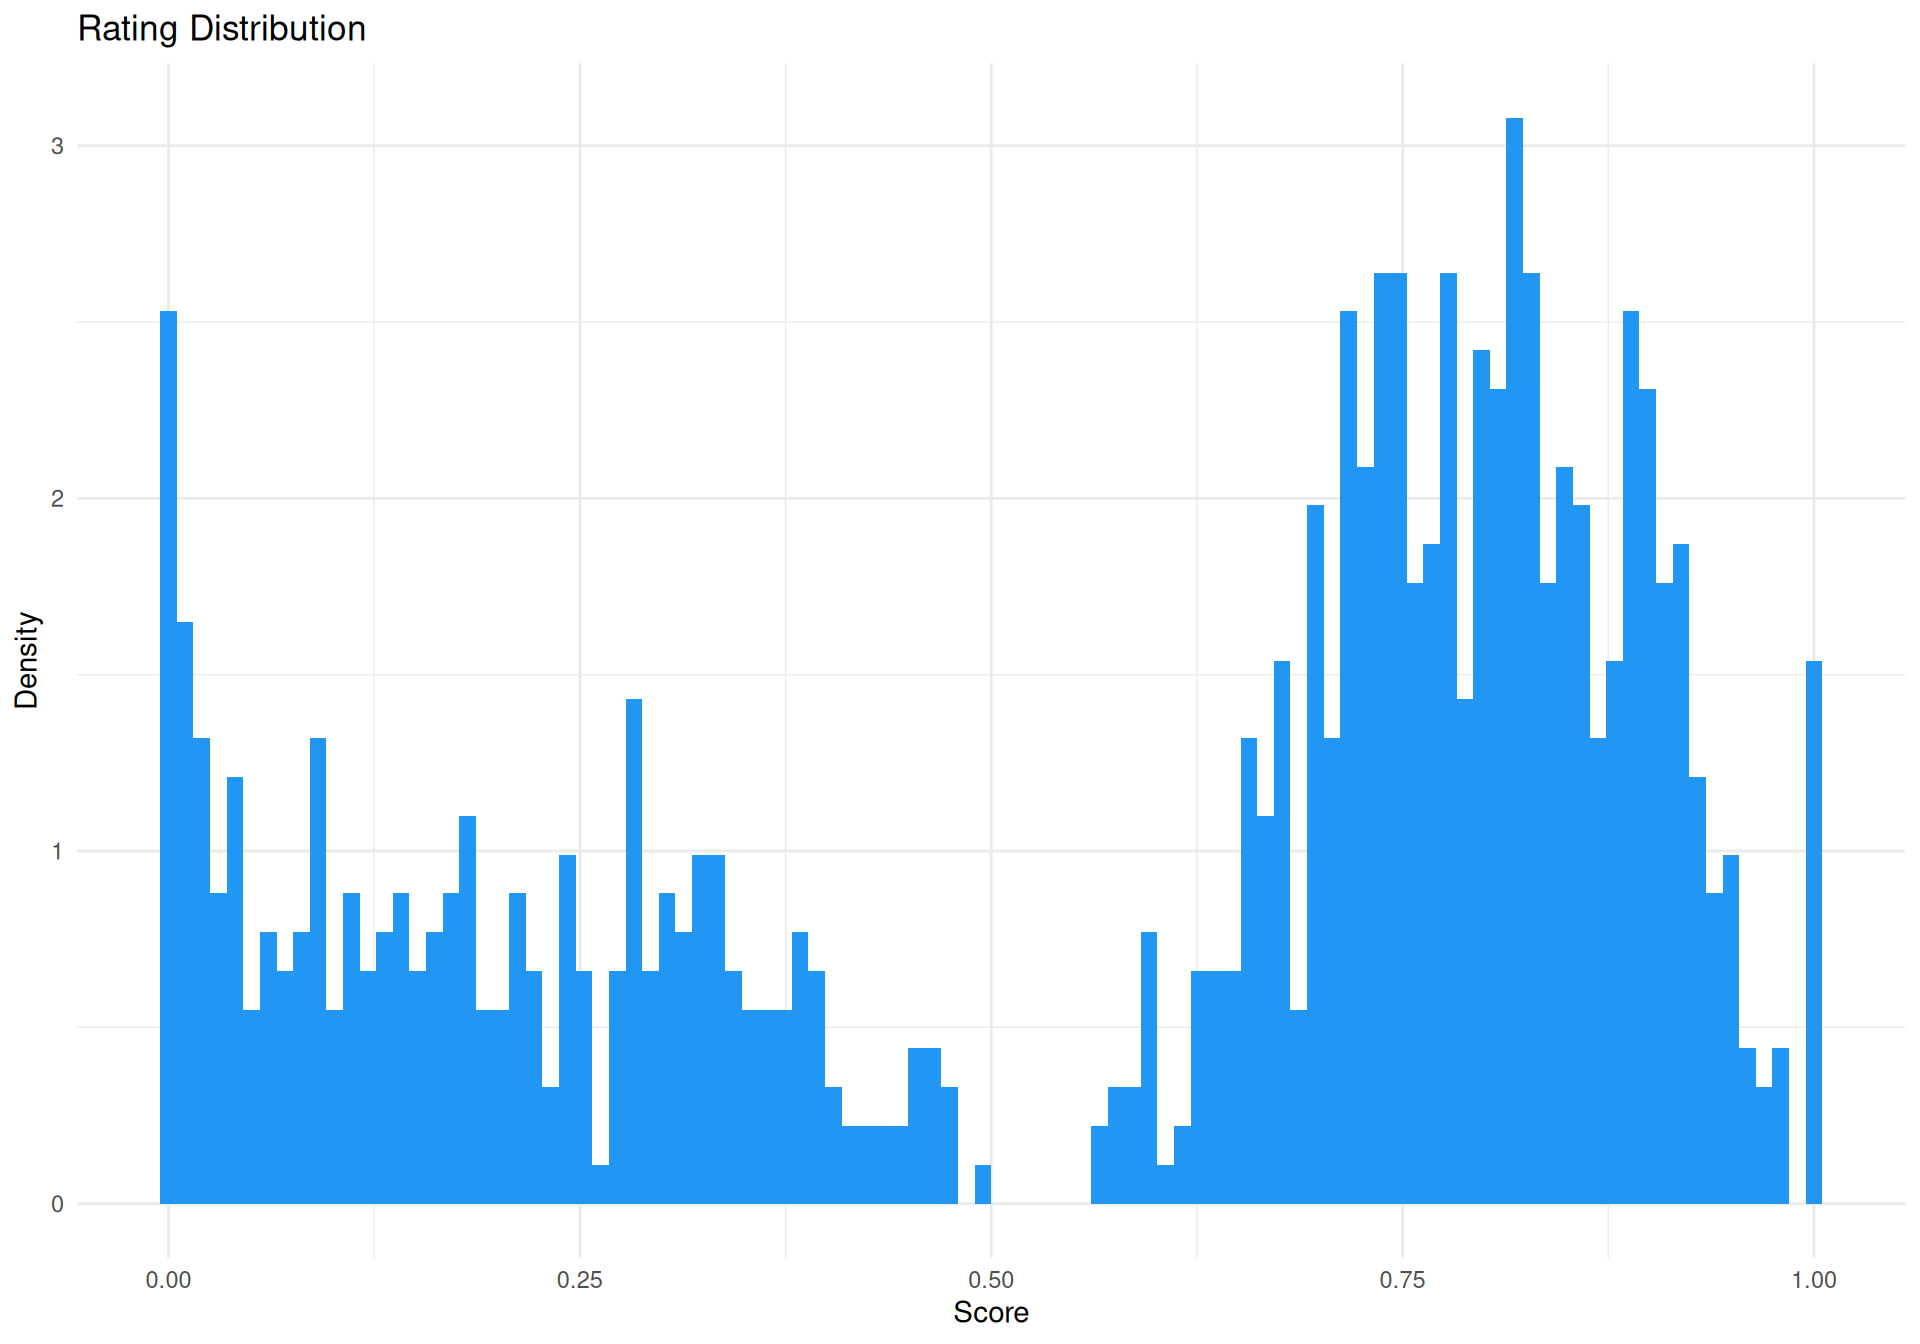
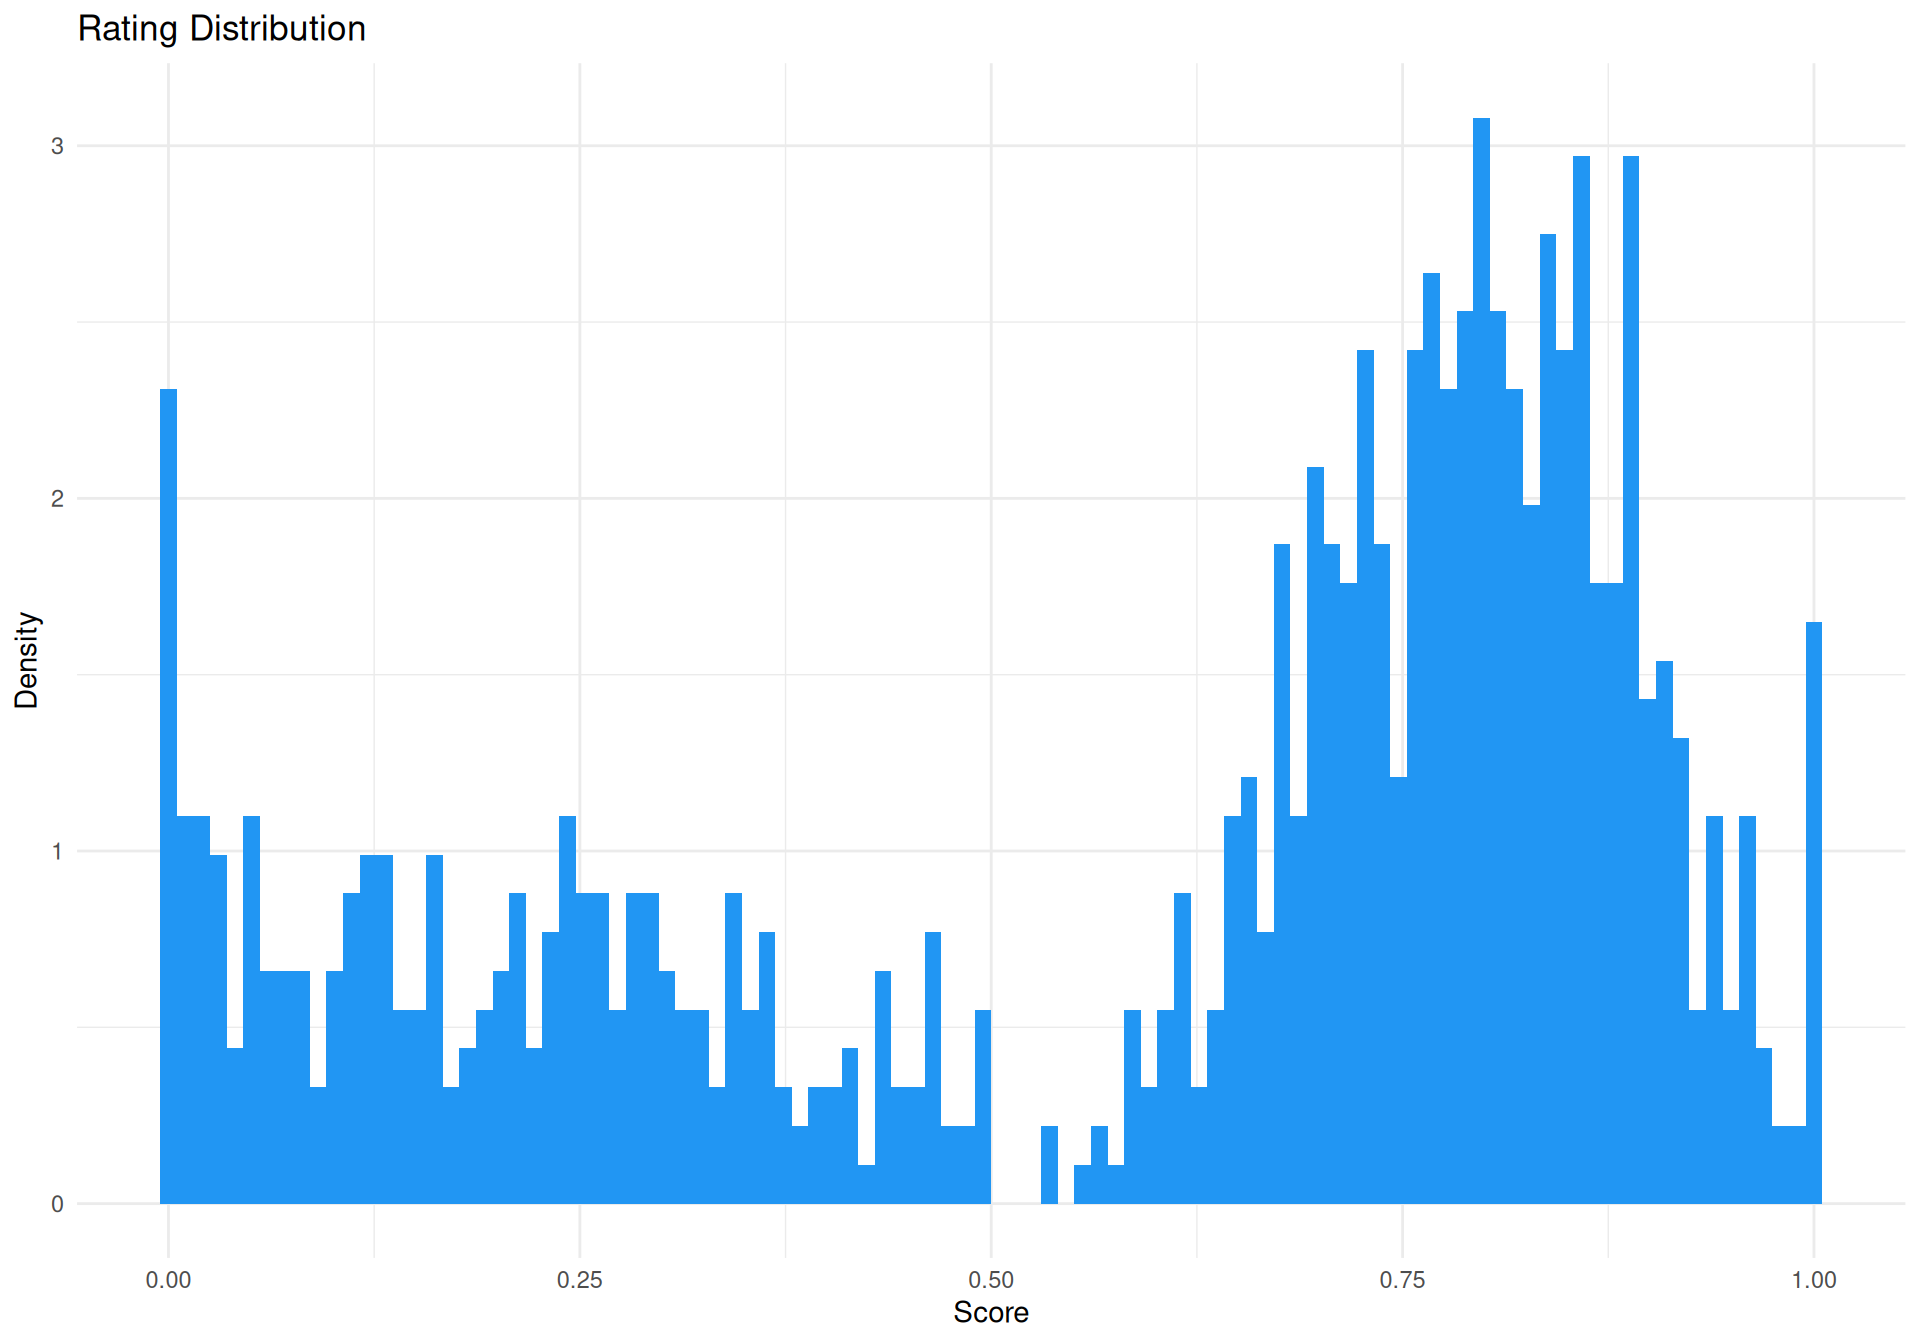
Deploying to gh-pages from @ DominiqueMakowski/cogmod@2ce3a03517e094edc7bd30d72def651f9230f2cd 🚀

diff --git a/articles/subjective_ratings.html b/articles/subjective_ratings.html
@@ -84,10 +84,9 @@
 <div class="sourceCode cell-code" id="cb2"><pre class="downlit sourceCode r">
 <code class="sourceCode R"><span><span class="va">df</span> <span class="op">&lt;-</span> <span class="fu"><a href="https://rdrr.io/r/base/data.frame.html" class="external-link">data.frame</a></span><span class="op">(</span><span class="op">)</span></span>
 <span><span class="kw">for</span><span class="op">(</span><span class="va">x</span> <span class="kw">in</span> <span class="fu"><a href="https://rdrr.io/r/base/seq.html" class="external-link">seq</a></span><span class="op">(</span><span class="fl">0.1</span>, <span class="fl">0.9</span>, by <span class="op">=</span> <span class="fl">0.1</span><span class="op">)</span><span class="op">)</span> <span class="op">{</span></span>
-<span>  <span class="va">df</span> <span class="op">&lt;-</span> <span class="fu"><a href="https://rdrr.io/r/base/data.frame.html" class="external-link">data.frame</a></span><span class="op">(</span>x <span class="op">=</span> <span class="va">x</span>,</span>
-<span>                   score <span class="op">=</span> <span class="fu"><a href="../reference/rchoco.html">rchoco</a></span><span class="op">(</span>n <span class="op">=</span> <span class="fl">100</span>, p <span class="op">=</span> <span class="fl">0.4</span> <span class="op">+</span> <span class="va">x</span> <span class="op">/</span> <span class="fl">2</span>, confright <span class="op">=</span> <span class="fl">0.4</span> <span class="op">+</span> <span class="va">x</span> <span class="op">/</span> <span class="fl">3</span>, </span>
-<span>                                  confleft <span class="op">=</span> <span class="fl">1</span><span class="op">-</span><span class="va">x</span>, pex <span class="op">=</span> <span class="fl">0.03</span>, bex <span class="op">=</span> <span class="fl">0.6</span>, pmid <span class="op">=</span> <span class="fl">0</span><span class="op">)</span><span class="op">)</span> <span class="op">|&gt;</span> </span>
-<span>    <span class="fu"><a href="https://rdrr.io/r/base/cbind.html" class="external-link">rbind</a></span><span class="op">(</span><span class="va">df</span><span class="op">)</span></span>
+<span>  <span class="va">score</span> <span class="op">&lt;-</span> <span class="fu"><a href="../reference/rchoco.html">rchoco</a></span><span class="op">(</span>n <span class="op">=</span> <span class="fl">100</span>, p <span class="op">=</span> <span class="fl">0.4</span> <span class="op">+</span> <span class="va">x</span> <span class="op">/</span> <span class="fl">2</span>, confright <span class="op">=</span> <span class="fl">0.4</span> <span class="op">+</span> <span class="va">x</span> <span class="op">/</span> <span class="fl">3</span>, </span>
+<span>                  confleft <span class="op">=</span> <span class="fl">1</span><span class="op">-</span><span class="va">x</span>, pex <span class="op">=</span> <span class="fl">0.03</span>, bex <span class="op">=</span> <span class="fl">0.6</span>, pmid <span class="op">=</span> <span class="fl">0</span><span class="op">)</span></span>
+<span>  <span class="va">df</span> <span class="op">&lt;-</span> <span class="fu"><a href="https://rdrr.io/r/base/cbind.html" class="external-link">rbind</a></span><span class="op">(</span><span class="va">df</span>, <span class="fu"><a href="https://rdrr.io/r/base/data.frame.html" class="external-link">data.frame</a></span><span class="op">(</span>x <span class="op">=</span> <span class="va">x</span>, score <span class="op">=</span> <span class="va">score</span><span class="op">)</span><span class="op">)</span></span>
 <span><span class="op">}</span></span>
 <span></span>
 <span><span class="va">df</span> <span class="op">|&gt;</span></span>
